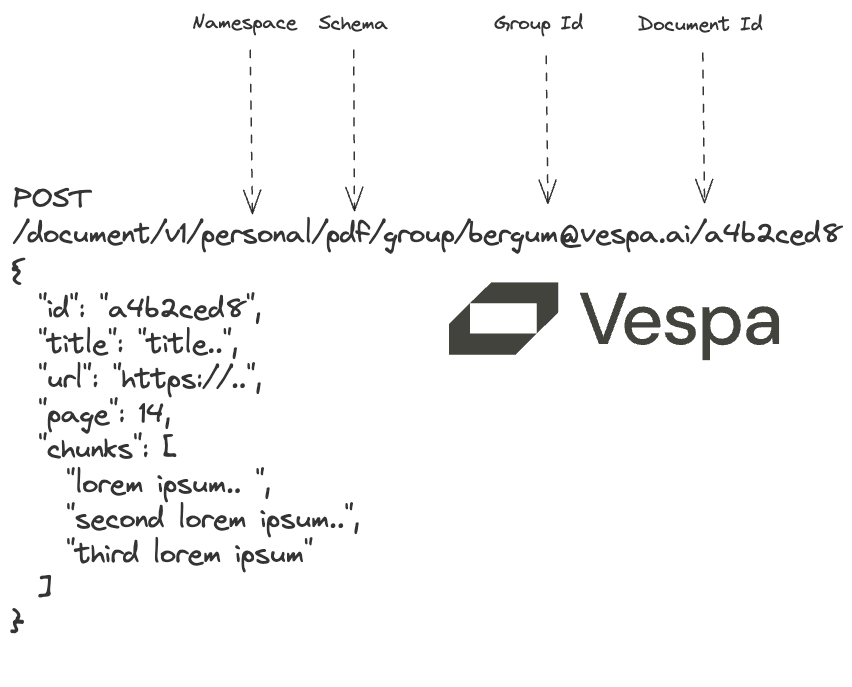
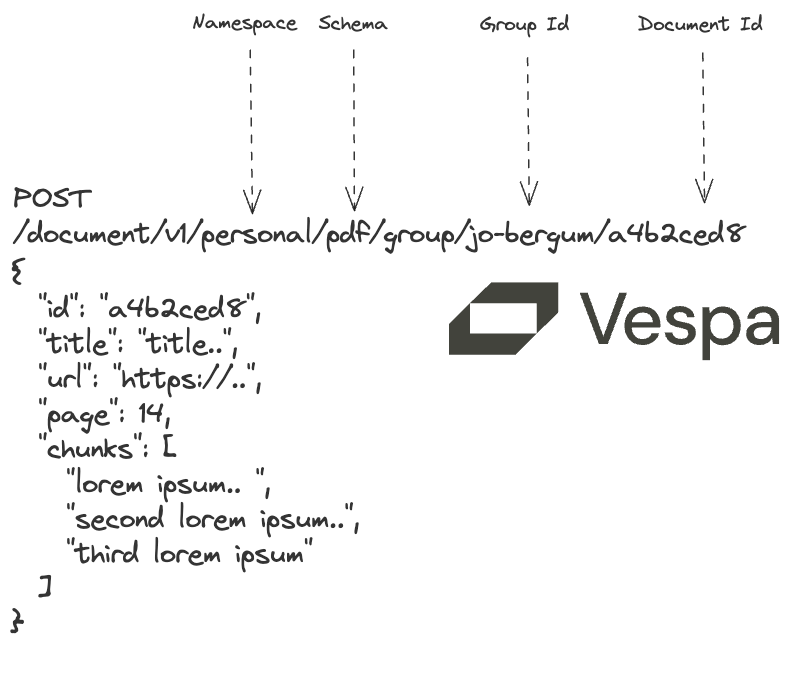
Use the same group id and replace with jo-bergum

diff --git a/_posts/2023-12-08-turbocharge-rag-with-langchain-and-vespa-streaming-mode.md b/_posts/2023-12-08-turbocharge-rag-with-langchain-and-vespa-streaming-mode.md
@@ -331,7 +331,7 @@ def callback(response:VespaResponse, id:str):
     if not response.is_successful():
         print(f"Document {id} failed to feed with status code {response.status_code}, url={response.url} response={response.json}")
 
-app.feed_iterable(schema="pdf", iter=vespa_feed("bergum@vespa.ai"), namespace="personal", callback=callback)
+app.feed_iterable(schema="pdf", iter=vespa_feed("jo-bergum"), namespace="personal", callback=callback)
 ```
 
 Notice the `schema` and `namespace` - PyVespa translates these to [Vespa document API](https://docs.vespa.ai/en/document-v1-api-guide.html)
@@ -353,7 +353,7 @@ Read more about querying Vespa in:
 - [Vespa Query API reference](https://docs.vespa.ai/en/reference/query-api-reference.html)
 - [Vespa Query Language API (YQL)](https://docs.vespa.ai/en/query-language.html)
 
-Sample query request for `why is colbert effective?` for the user `bergum@vespa.ai`:
+Sample query request for `why is colbert effective?` for the user `jo-bergum`:
 
 
 ```python
@@ -362,7 +362,7 @@ import json
 
 response:VespaQueryResponse = app.query(
     yql="select id,title,page,chunks from pdf where userQuery() or ({targetHits:10}nearestNeighbor(embedding,q))",
-    groupname="bergum@vespa.ai", 
+    groupname="jo-bergum", 
     ranking="hybrid",
     query="why is colbert effective?",
     body={
@@ -375,7 +375,7 @@ print(json.dumps(response.hits[0], indent=2))
 ```
 
     {
-      "id": "id:personal:pdf:g=bergum@vespa.ai:a4b2ced87807ee9cb0325b7a1c64a070d05a31f7",
+      "id": "id:personal:pdf:g=jo-bergum:a4b2ced87807ee9cb0325b7a1c64a070d05a31f7",
       "relevance": 1.1412738851962692,
       "source": "pdfs_content.pdf",
       "fields": {
@@ -494,11 +494,11 @@ class VespaStreamingHybridRetriever(BaseRetriever):
         return sorted(chunks_with_scores, key=lambda x: x[1], reverse=True)
 ```
 
-That's it! We can give our newborn retriever a spin for the user `bergum@vespa.ai` by 
+That's it! We can give our newborn retriever a spin for the user `jo-bergum` by 
 
 
 ```python
-vespa_hybrid_retriever = VespaStreamingHybridRetriever(app=app, user="bergum@vespa.ai", pages=1, chunks_per_page=1)
+vespa_hybrid_retriever = VespaStreamingHybridRetriever(app=app, user="jo-bergum", pages=1, chunks_per_page=1)
 ```
 
 
@@ -518,7 +518,7 @@ We have several steps composed into a chain:
 - The formatting of the retrieved context 
 
 ```python
-vespa_hybrid_retriever = VespaStreamingHybridRetriever(app=app, user="bergum@vespa.ai", pages=3, chunks_per_page=3)
+vespa_hybrid_retriever = VespaStreamingHybridRetriever(app=app, user="jo-bergum", pages=3, chunks_per_page=3)
 ```
 
 
